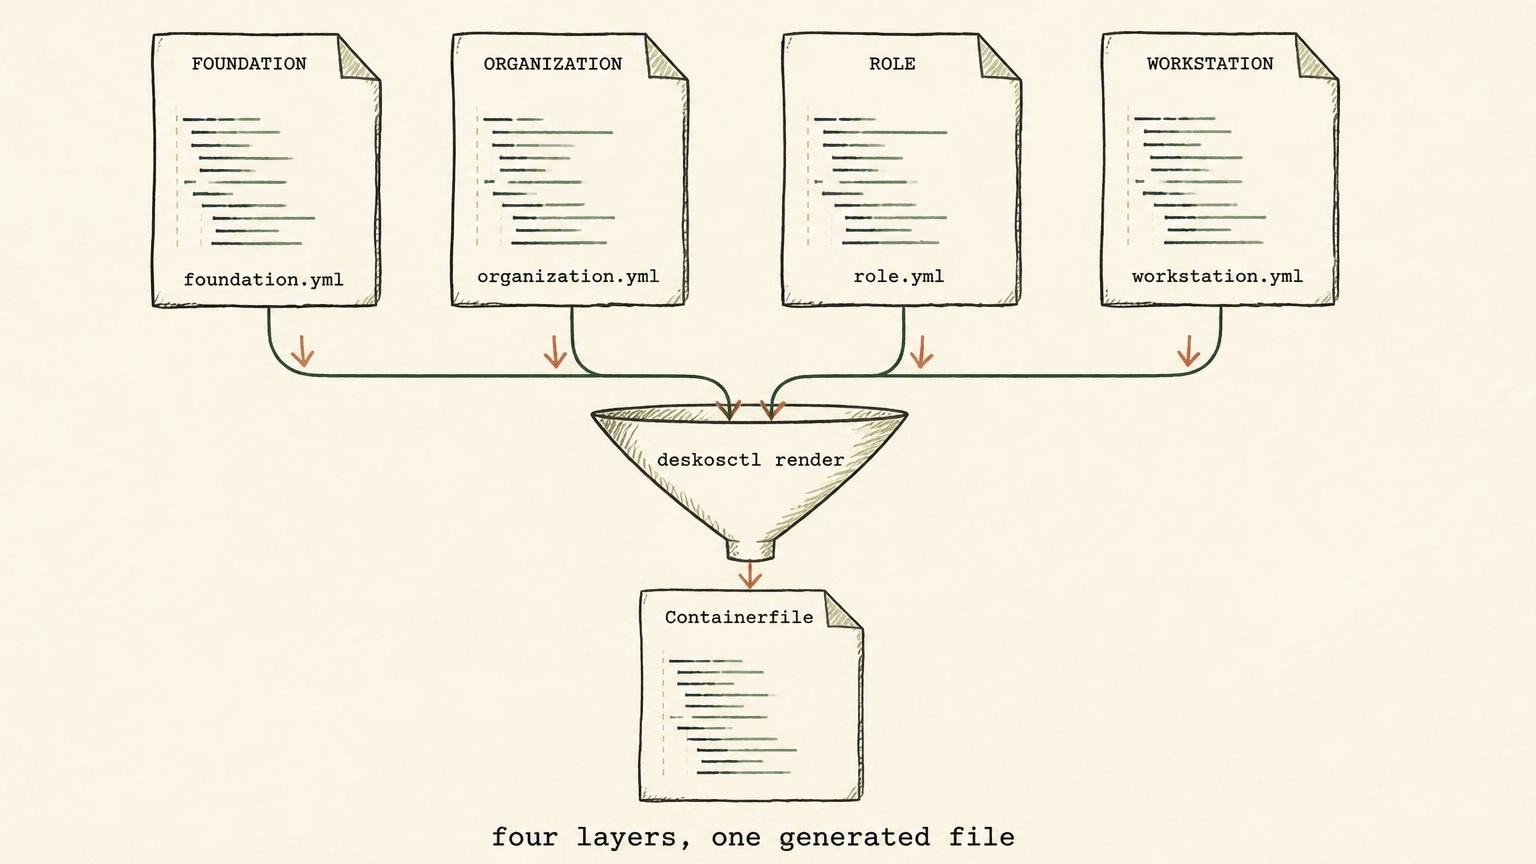
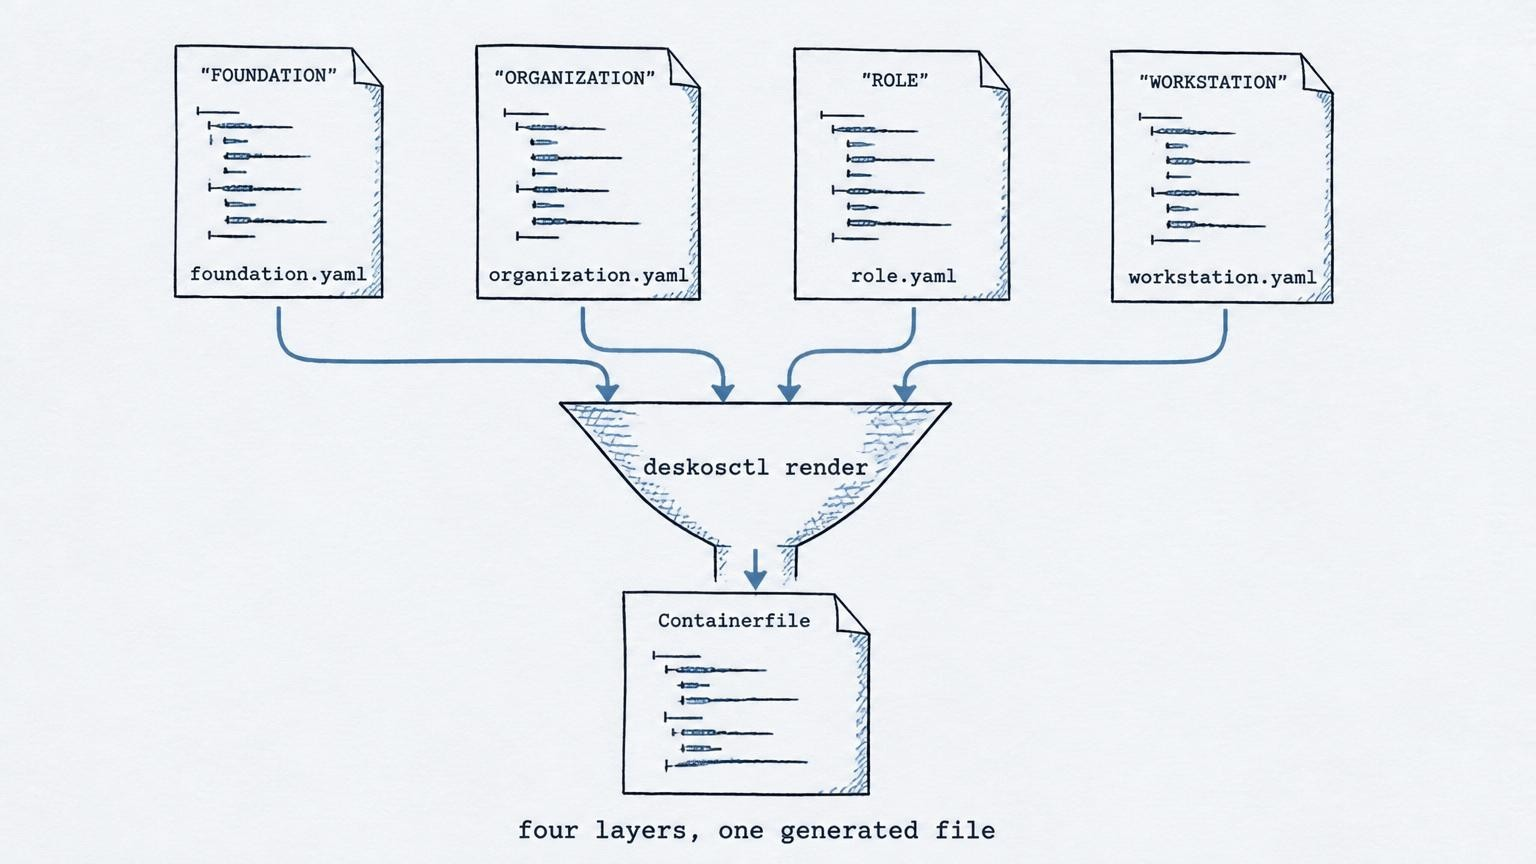
Switch the tone to the brand blue
The lockup carries the real accent (#4E7892) and the plates are blue washes on a
cold paper, so the page follows: cold paper background matched to the
illustrations, ink blue-grey type, slate accent, blue status dots. The lockup
from docs/images replaces the wordmark in the header and footer, and the blue
versions of the three plates replace the green ones.

Changed region(s): [[0.0938, 0.0312, 0.875, 1.0]]

diff --git a/assets/site.css b/assets/site.css
@@ -9,19 +9,19 @@
 }
 
 :root {
-  --ink: #faf3e1;
-  --panel: #f6eeda;
-  --panel-2: #f7f0dd;
-  --line: #d6cab1;
-  --line-soft: #e8dec7;
-  --paper: #2c2f27;
-  --muted: #6d7061;
-  --accent: #3f5b3c;
-  --accent-hi: #557551;
-  --green: #3f5b3c;
-  --violet: #75688f;
-  --red: #b4552f;
-  --blue: #48657f;
+  --ink: #f1f5f8;
+  --panel: #fbfdff;
+  --panel-2: #f0f5fa;
+  --line: #cfdae4;
+  --line-soft: #e1e9f1;
+  --paper: #1e2a33;
+  --muted: #5e7183;
+  --accent: #4e7892;
+  --accent-hi: #5f8da8;
+  --green: #4e7892;
+  --violet: #6f7fb0;
+  --red: #a5564a;
+  --blue: #2f5b93;
   --wrap: 1200px;
   --gutter: clamp(1.1rem, 4vw, 3rem);
   --mono: ui-monospace, "SFMono-Regular", "JetBrains Mono", Menlo, Consolas, monospace;
@@ -48,8 +48,8 @@ body::before {
   inset: 0;
   pointer-events: none;
   background-image:
-    linear-gradient(to right, rgba(44,47,39,.035) 1px, transparent 1px),
-    linear-gradient(to bottom, rgba(44,47,39,.028) 1px, transparent 1px);
+    linear-gradient(to right, rgba(30,42,51,.045) 1px, transparent 1px),
+    linear-gradient(to bottom, rgba(30,42,51,.035) 1px, transparent 1px);
   background-size: 96px 96px, 96px 96px;
   z-index: 0;
 }
@@ -107,7 +107,7 @@ h1 {
   margin: 0 0 1.4rem; text-wrap: balance;
 }
 .mark { color: var(--accent); position: relative; }
-.lede { font-size: clamp(1.05rem, 1.6vw, 1.25rem); color: #4b4f45; max-width: 34ch; margin: 0 0 2rem; }
+.lede { font-size: clamp(1.05rem, 1.6vw, 1.25rem); color: #3a4753; max-width: 34ch; margin: 0 0 2rem; }
 .actions { display: flex; flex-wrap: wrap; gap: .8rem; }
 .note { font-family: var(--mono); font-size: .72rem; letter-spacing: .08em; text-transform: uppercase; color: var(--muted); margin-top: 1.6rem; }
 
@@ -143,7 +143,7 @@ h1 {
 .label::after { content: ""; height: 1px; flex: 1; background: var(--line-soft); }
 .label .num { color: var(--accent); }
 .h2 { font-family: "Iowan Old Style", "Palatino Linotype", Palatino, Georgia, serif; font-size: clamp(2rem, 4vw, 3.2rem); line-height: 1.02; letter-spacing: -.03em; font-weight: 800; margin: 0 0 1.4rem; text-wrap: balance; }
-.body { color: #4b4f45; max-width: 56ch; margin: 0 0 1rem; }
+.body { color: #3a4753; max-width: 56ch; margin: 0 0 1rem; }
 .body strong { color: var(--paper); }
 .section-lede { max-width: 62ch; margin-bottom: 2.4rem; }
 .section-grid { display: grid; grid-template-columns: minmax(0, 1fr) minmax(0, 1fr); gap: clamp(2rem, 5vw, 4.5rem); align-items: start; }
@@ -157,7 +157,7 @@ h1 {
 .section.light .label::after { background: var(--line-soft); }
 .section.light .label .num { color: var(--accent); }
 .section.light .h2 { color: var(--paper); }
-.section.light .body { color: #4b4f45; }
+.section.light .body { color: #3a4753; }
 .steps3 { display: grid; grid-template-columns: repeat(3, 1fr); gap: 1px; background: var(--line-soft); border: 1px solid var(--line-soft); }
 .step3 { background: var(--ink); padding: 1.3rem 1.2rem; }
 .n3 { color: var(--accent); font-size: .64rem; }
@@ -184,7 +184,7 @@ h1 {
 .platforms thead th { font-family: var(--mono); font-size: .7rem; letter-spacing: .1em; text-transform: uppercase; color: var(--muted); font-weight: 500; background: var(--panel); }
 .platforms tbody th { font-weight: 700; }
 .platforms tbody tr:last-child th, .platforms tbody tr:last-child td { border-bottom: 0; }
-.platforms td.mono { font-size: .8rem; letter-spacing: 0; text-transform: none; color: #4b4f45; }
+.platforms td.mono { font-size: .8rem; letter-spacing: 0; text-transform: none; color: #3a4753; }
 .dot { display: inline-block; width: .5rem; height: .5rem; border-radius: 50%; margin-right: .5rem; vertical-align: middle; }
 .dot-green { background: var(--green); }
 .dot-violet { background: var(--violet); }
@@ -218,7 +218,7 @@ details p { color: var(--muted); margin: .8rem 0 0; max-width: 66ch; }
 .footer-note { color: var(--muted); margin: .9rem 0 0; font-size: .92rem; }
 .footer-title { color: var(--muted); margin: 0 0 .8rem; }
 .footer ul { list-style: none; margin: 0; padding: 0; display: grid; gap: .45rem; }
-.footer ul a { color: #4b4f45; text-decoration: none; font-size: .93rem; }
+.footer ul a { color: #3a4753; text-decoration: none; font-size: .93rem; }
 .footer ul a:hover { color: var(--accent); }
 .footer-bottom { display: flex; justify-content: space-between; gap: 1rem; border-top: 1px solid var(--line-soft); margin-top: 2.5rem; padding-top: 1.2rem; color: var(--muted); font-size: .68rem; }
 

diff --git a/index.html b/index.html
@@ -5,7 +5,7 @@
 <meta name="viewport" content="width=device-width, initial-scale=1">
 <title>DeskOS — the desktop is compiled</title>
 <meta name="description" content="DeskOS turns declared intent into a typed plan, a generated Containerfile and one bootable container image pinned by digest.">
-<meta name="theme-color" content="#F4EFE1">
+<meta name="theme-color" content="#F1F5F8">
 <link rel="icon" href="assets/favicon.svg" type="image/svg+xml">
 <link rel="stylesheet" href="assets/site.css">
 </head>
@@ -15,7 +15,7 @@
 <header class="nav">
   <div class="wrap nav-inner">
     <a class="brand" href="./" aria-label="DeskOS">
-      <img class="wordmark" src="assets/wordmark.svg" alt="DeskOS" width="148" height="30">
+      <img class="wordmark" src="assets/lockup.svg" alt="DeskOS" width="199" height="30">
     </a>
     <nav aria-label="Main">
       <ul class="links">
@@ -183,7 +183,7 @@
 <footer class="footer">
   <div class="wrap footer-grid">
     <div>
-      <img class="wordmark" src="assets/wordmark.svg" alt="DeskOS" width="132" height="27">
+      <img class="wordmark" src="assets/lockup.svg" alt="DeskOS" width="170" height="26">
       <p class="footer-note">Workstations compiled from declared intent.</p>
     </div>
     <nav aria-label="Documentation">
